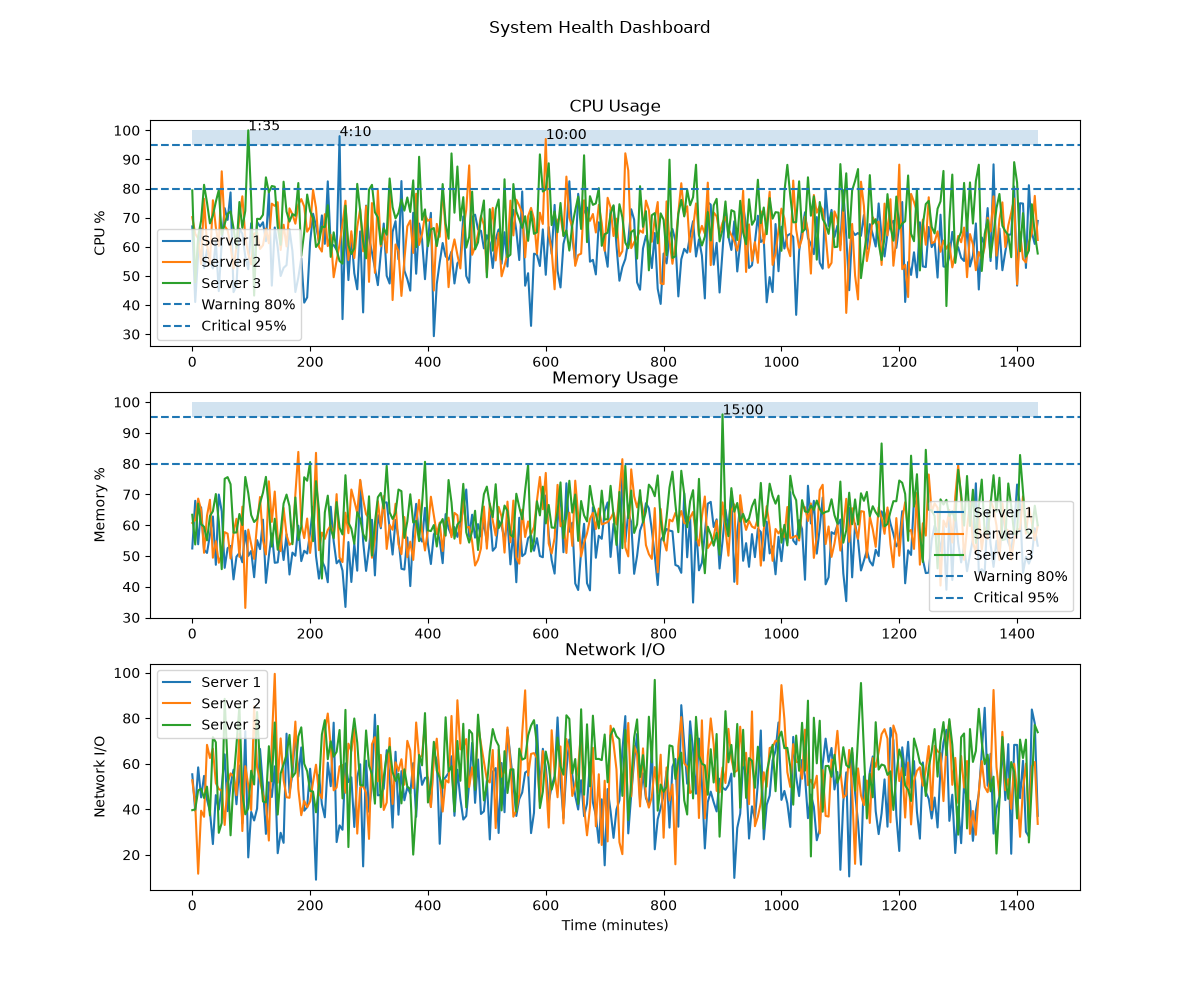
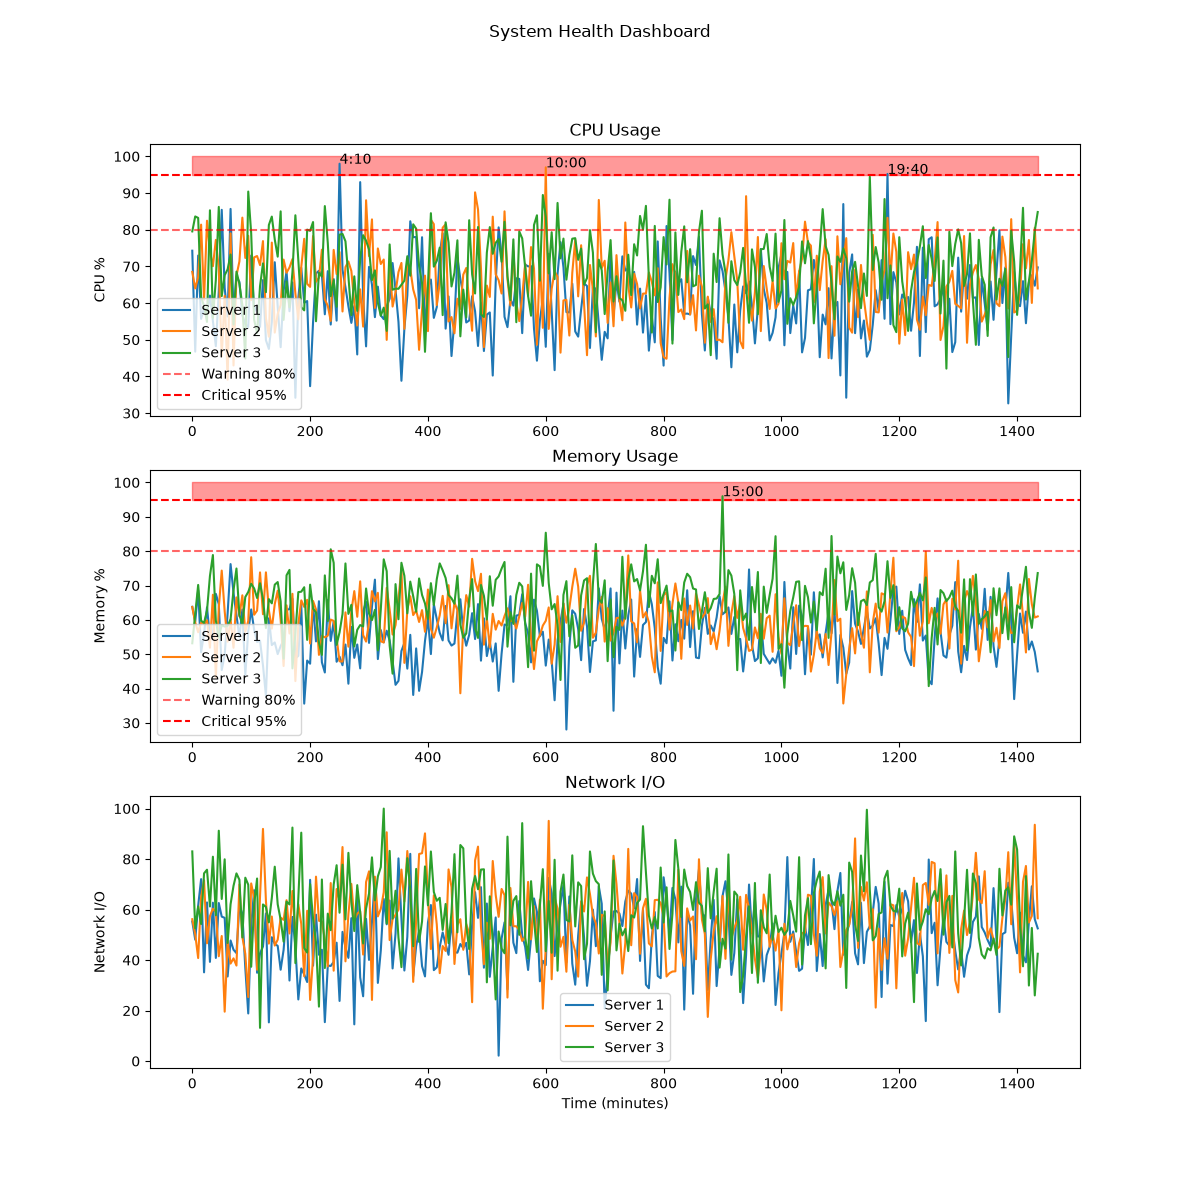
task 9 completed

diff --git a/Exercises/Tasks/task9.py b/Exercises/Tasks/task9.py
@@ -1,0 +1,117 @@
+import numpy as np
+import pandas as pd
+import matplotlib.pyplot as plt
+
+# ratings out of 10
+data = {
+    'price': [9, 5, 8, 7],
+    'quality': [7, 9, 4, 6],
+    'speed': [9, 7, 6, 8],
+    'design': [7, 8, 6, 4],
+    'battery': [8, 7, 4, 5],
+    'support': [4, 5, 8, 3],
+    'features': [9, 8, 2, 4]
+}
+
+df = pd.DataFrame(
+    data,
+    index=['A', 'B', 'C', 'D']
+)
+
+# print(df)
+
+attributes = df.columns
+values = df.values
+
+
+# radar chart
+angles = np.linspace(
+    0,
+    2 * np.pi,
+    len(attributes),
+    endpoint=False
+)
+
+angles = np.concatenate(
+    (
+        angles,
+        [angles[0]]
+    )
+)
+
+fig = plt.figure(figsize=(14, 7))
+
+c1 = fig.add_subplot(1, 2, 1, polar=True)
+c2 = fig.add_subplot(1, 2, 2)
+
+colors = ['green', 'deeppink', 'steelblue', 'darkkhaki']
+
+for i in range(4):
+
+    data_values = np.concatenate(
+        (
+            values[i],
+            [values[i][0]]
+        )
+    )
+
+    c1.plot(
+        angles,
+        data_values,
+        color=colors[i],
+        label=df.index[i]
+    )
+
+    c1.fill(
+        angles,
+        data_values,
+        color=colors[i],
+        alpha=0.5
+    )
+
+c1.set_xticks(angles[:-1])
+c1.set_xticklabels(attributes)
+
+c1.set_ylim(0, 10)
+c1.set_title("Product Comparison")
+c1.legend()
+
+
+# heatmap
+c2.imshow(df.values, aspect='auto')
+
+c2.set_xticks(range(7))
+c2.set_xticklabels(attributes, rotation=45)
+
+c2.set_yticks(range(4))
+c2.set_yticklabels(df.index)
+
+
+for i in range(4):
+    for j in range(7):
+        c2.text(
+            j,
+            i,
+            df.iloc[i, j],
+            ha='center',
+            va='center'
+        )
+
+c2.set_title("Heatmap")
+
+# super title
+plt.suptitle(
+    "Comparison of 4 Products across 7 Attributes",
+    fontsize=16
+)
+
+# source footnote
+fig.text(
+    0.5,
+    0.01,
+    "Data source: Illustrative scores created for demonstration",
+    ha="center"
+)
+
+plt.savefig("comparison_4_products.png")
+plt.show()

diff --git a/Exercises/Tasks/task8.py b/Exercises/Tasks/task8.py
@@ -36,16 +36,16 @@ cpu2[120] = 97
 memory3[180] = 96
 
 # 3*1 grid
-fig, (c1, c2, c3) = plt.subplots(3,1,figsize=(12,10))
+fig, (c1, c2, c3) = plt.subplots(3,1,figsize=(12,12))
 
 # for cpu
 c1.plot(time, cpu1, label="Server 1")
 c1.plot(time, cpu2, label="Server 2")
 c1.plot(time, cpu3, label="Server 3")
 
-c1.axhline(80, linestyle='--', label="Warning 80%")
-c1.axhline(95, linestyle='--', label="Critical 95%")
-c1.fill_between(time, 95, 100, alpha=0.2)
+c1.axhline(80, linestyle='--', label="Warning 80%",alpha = 0.6,color ='red')
+c1.axhline(95, linestyle='--', label="Critical 95%", color='red')
+c1.fill_between(time, 95, 100, alpha=0.4, color = 'red')
 
 for i in range(288):
     if cpu1[i] >= 95:
@@ -65,9 +65,9 @@ c2.plot(time, memory1, label="Server 1")
 c2.plot(time, memory2, label="Server 2")
 c2.plot(time, memory3, label="Server 3")
 
-c2.axhline(80, linestyle='--', label="Warning 80%")
-c2.axhline(95, linestyle='--', label="Critical 95%")
-c2.fill_between(time, 95, 100, alpha=0.2)
+c2.axhline(80, linestyle='--', label="Warning 80%",alpha = 0.6,color ='red')
+c2.axhline(95, linestyle='--', label="Critical 95%",color='red')
+c2.fill_between(time, 95, 100, alpha=0.4, color = 'red')
 
 for i in range(288):
     if memory1[i] >= 95:

diff --git a/Exercises/Matplotlib/radar.py b/Exercises/Matplotlib/radar.py
@@ -1,0 +1,23 @@
+import matplotlib.pyplot as plt 
+import numpy as np 
+
+# data
+labels = ['A', 'B', 'C', 'D', 'E']
+values = [4, 3, 5, 2, 4]
+
+
+angles = np.linspace(
+    0,
+    2 * np.pi,
+    len(labels),
+    endpoint = False
+)
+
+values += values[:1]
+angles = np.append(angles, angles[0])
+
+plt.polar(angles,values)
+plt.fill(angles,values,alpha=0.2,color='deeppink')
+
+plt.xticks(angles[:-1],labels)
+plt.show()
